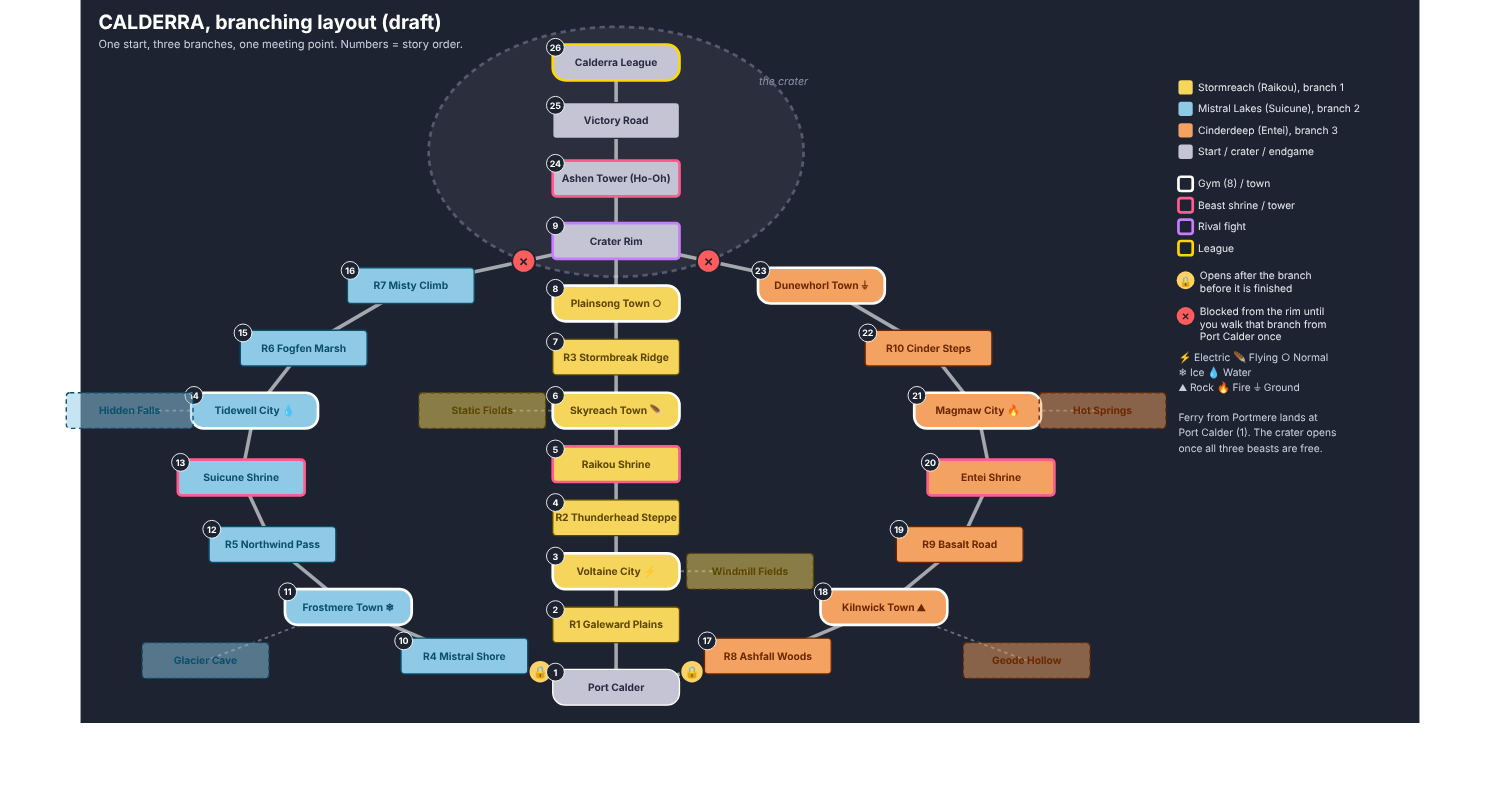
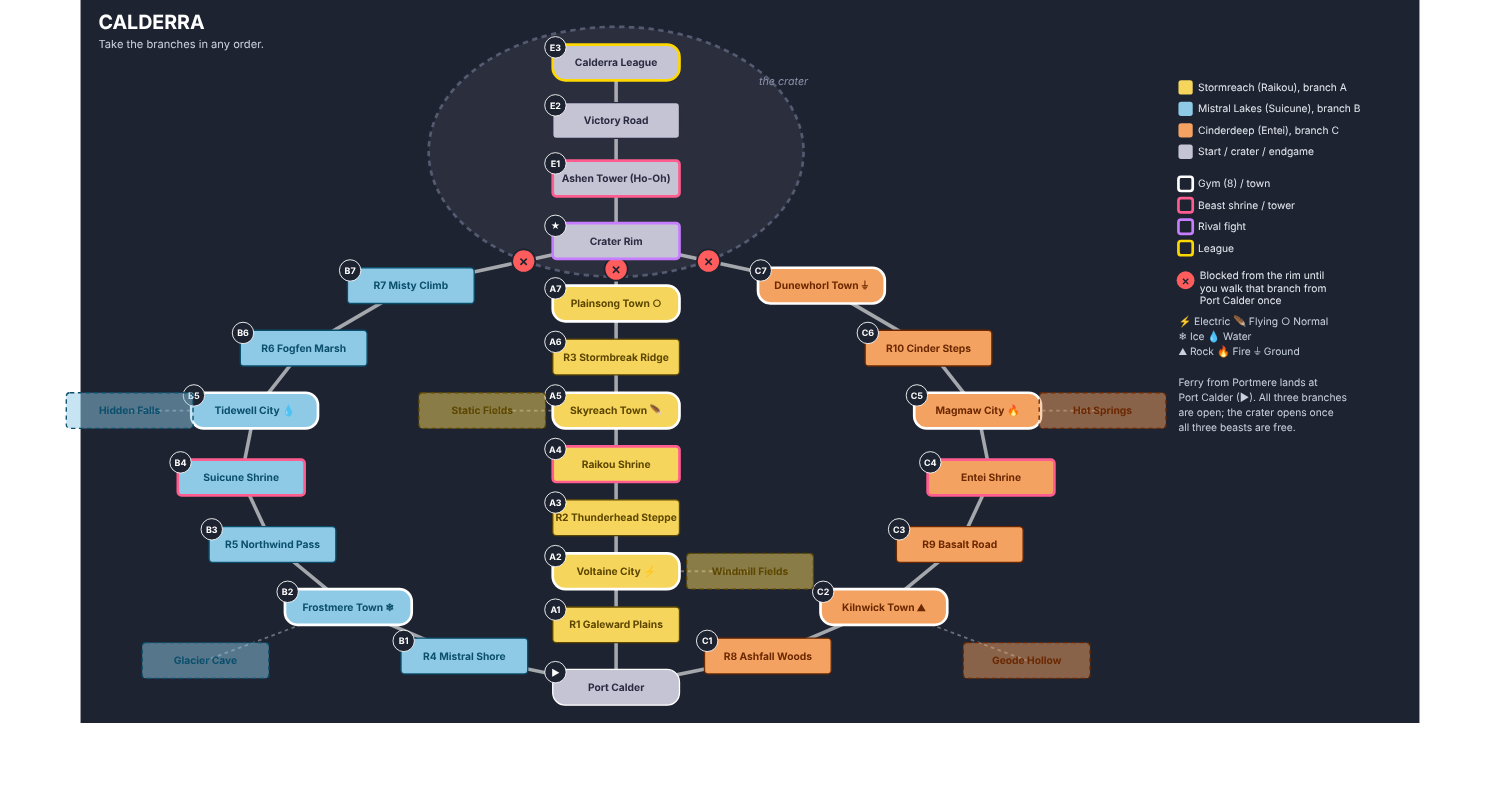
2.0.0 plan: Calderra branches open in any order, levels follow badge count
Claude-Session: https://claude.ai/code/session_01L7ZGFpDhB5CitAmaNhFsbx

diff --git a/docs/2.0.0/party-royale-2.0.0.md b/docs/2.0.0/party-royale-2.0.0.md
@@ -49,10 +49,12 @@ Working name: **Calderra**, a region built around a great crater. The legend say
 
 Layout (locked in by Kyle, 2026-10-08): a tree, not a grid. Map: [calderra-map.png](calderra-map.png), 32 areas.
 - One start, **Port Calder**, where the ferry lands. Three branches leave it and all end at the **Crater Rim**.
-- Branch 1, **Stormreach** (thunder plains, Raikou): Electric, Flying and Normal gyms. Open from the start.
-- Branch 2, **Mistral Lakes** (cold lakes and the north wind, Suicune): Ice and Water gyms. Its entrance at Port Calder opens after branch 1.
-- Branch 3, **Cinderdeep** (volcanic highlands, Entei): Rock, Fire and Ground gyms. Its entrance opens after branch 2.
-- The Rim ends of branches 2 and 3 are blocked from the Rim side until you have walked that branch from Port Calder once; after that they work both ways as shortcuts.
+- Three branches, all open from the start; the player picks which beast to chase first and can walk back to Port Calder and switch branches at any time (Kyle, 2026-10-08):
+  - **Stormreach** (thunder plains, Raikou): Electric, Flying and Normal gyms.
+  - **Mistral Lakes** (cold lakes and the north wind, Suicune): Ice and Water gyms.
+  - **Cinderdeep** (volcanic highlands, Entei): Rock, Fire and Ground gyms.
+- Because the order is free, levels follow progress, not place: each gym leader's team scales with how many Calderra badges you already have (your 1st badge is always the easiest, your 8th the hardest), and wild Pokémon and route trainers scale the same way.
+- Each branch's Rim end is blocked from the Rim side until you have walked that branch from Port Calder once; after that it works both ways as a shortcut.
 - From the Rim, once all three beasts are free: the **Ashen Tower** (Ho-Oh), Victory Road and the Calderra League.
 - Six optional side areas branch off gym towns (Windmill Fields, Static Fields, Glacier Cave, Hidden Falls, Geode Hollow, Hot Springs).
 
